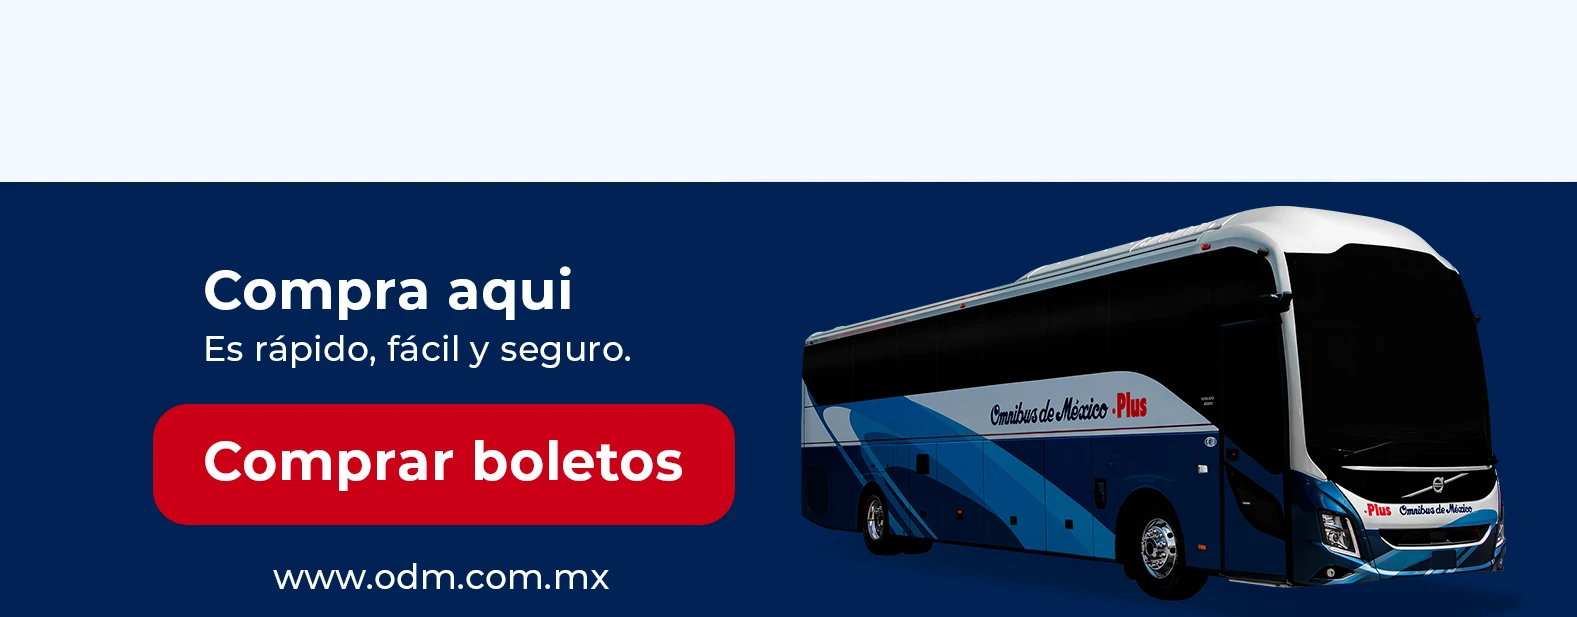
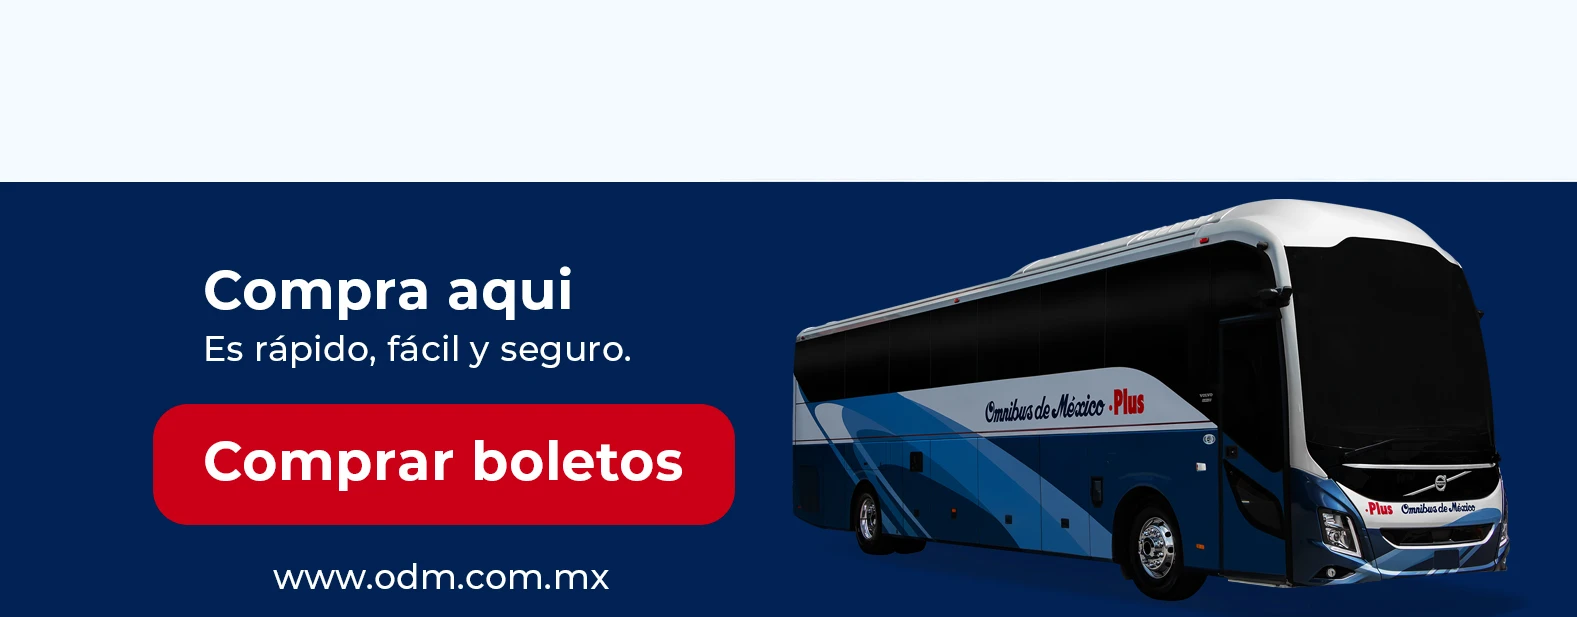
linked to landing url

Changed region(s): [[0.4971, 0.3079, 0.9632, 0.9546], [0.9321, 0.4927, 0.9632, 0.5235]]

diff --git a/src/components/Banner.tsx b/src/components/Banner.tsx
@@ -12,22 +12,24 @@ export default function Banner() {
 
   return (
     <div className="flex flex-col lg:flex-row bg-[#edf4fa]">
-            <div>
-                <h3 className="text-4xl font-bold p-2 gb-[#1f2a4f] mb-2">Viaja cómodo y seguro en nuestros autobuses de última generación</h3>
-
+        <div>
+            <h3 className="text-4xl font-bold text-[#1f2a4f] mb-2 p-6">Viaja cómodo y seguro en nuestros autobuses de última generación</h3>
+            {/* grid grid-cols-2 md:grid-cols-1 gap-x-6 gap-y-3 */}
+            <div className="grid grid-cols-2 lg:grid-cols-1 gap-x-6 gap-y-3">
                 { info.map(dato => (
-                    <div className="flex ml-4 mb-2">
-                    <svg xmlns="http://www.w3.org/2000/svg" viewBox="0 0 24 24" fill="currentColor" className="size-6 text-green-600">
-                        <path fillRule="evenodd" d="M2.25 12c0-5.385 4.365-9.75 9.75-9.75s9.75 4.365 9.75 9.75-4.365 9.75-9.75 9.75S2.25 17.385 2.25 12Zm13.36-1.814a.75.75 0 1 0-1.22-.872l-3.236 4.53L9.53 12.22a.75.75 0 0 0-1.06 1.06l2.25 2.25a.75.75 0 0 0 1.14-.094l3.75-5.25Z" clipRule="evenodd" />
-                    </svg>
-                    <p className="text-sm">{ dato.texto }</p>
-                </div>
+                    <div className="flex ml-4">
+                        <svg xmlns="http://www.w3.org/2000/svg" viewBox="0 0 24 24" fill="currentColor" className="size-6 text-green-600">
+                            <path fillRule="evenodd" d="M2.25 12c0-5.385 4.365-9.75 9.75-9.75s9.75 4.365 9.75 9.75-4.365 9.75-9.75 9.75S2.25 17.385 2.25 12Zm13.36-1.814a.75.75 0 1 0-1.22-.872l-3.236 4.53L9.53 12.22a.75.75 0 0 0-1.06 1.06l2.25 2.25a.75.75 0 0 0 1.14-.094l3.75-5.25Z" clipRule="evenodd" />
+                        </svg>
+                        <p className="text-sm">{ dato.texto }</p>
+                    </div>
                 )) }
+            </div>
 
-            </div>
-            <div>
-                <img width={1000} height={696} src="img/banner-autobus.jpg" alt="viaja a tuxpan con omnibus de mexico" />
-            </div>
         </div>
+        <div>
+            <img className="w-full" src="img/banner-autobus.webp" alt="viaja a tuxpan con omnibus de mexico" />
+        </div>
+    </div>
   )
 }

diff --git a/src/components/Header.tsx b/src/components/Header.tsx
@@ -2,14 +2,21 @@
 export default function Header() {
   return (
         <div className="flex flex-col lg:flex-row">
-            <div>
-                <img className="mt-10 mx-auto lg:mx-0" width={200} height={79} src="svg/logo-odm.svg" alt="logotipo Omnibus de Mexico" />
-                <img className="mx-auto mt-10" width={510} src="svg/texto-header.svg" alt="tuxpan, tu proximo destino" />
-                <img className="mx-auto my-10" width={600} src="svg/amenidades.svg" alt="prueba nuestro servicio plus" />
-            </div>
-            <div>
-                <img width={1000} height={696} src="img/main.webp" alt="viaja a tuxpan con omnibus de mexico" />
-            </div>
-        </div>
+    {/* Columna izquierda */}
+    <div className="flex-2">
+        <img className="mt-1 mx-auto lg:mx-0" width={300} src="svg/logo-odm.svg" alt="logotipo Omnibus de Mexico" />
+        <img className="mx-auto mt-10 w-full max-w-150" src="svg/texto-header.svg" alt="tuxpan, tu proximo destino" />
+        <img className="mx-auto my-10 w-full max-w-150" src="svg/amenidades.svg" alt="prueba nuestro servicio plus" />
+    </div>
+
+    {/* Columna derecha - Imagen principal */}
+    <div className="flex-2 flex justify-end lg:justify-end items-start">
+        <img 
+            className="w-full max-w-full lg:max-w-230 mt-10 lg:mt-0" 
+            src="img/main.webp" 
+            alt="viaja a tuxpan con omnibus de mexico" 
+        />
+    </div>
+</div>
   )
 }

diff --git a/src/components/Destinos.tsx b/src/components/Destinos.tsx
@@ -5,16 +5,18 @@ export default function Destinos() {
 
 //flex flex-col sm:flex-row flex-wrap gap-4 justify-center items-center
   return (
-    <a href="https://odm.com.mx" target="_blank" className="flex flex-col sm:flex-row flex-wrap justify-center items-center gap-4">
+    <div className="flex flex-col sm:flex-row flex-wrap justify-center items-center gap-4">
         {destinosList.map(ficha => (
-            <div
-                key={ficha.id}
-                className="w-50 h-20 cursor-pointer rounded-2xl text-center border-2 bg-[#1f2a4f] p-2 flex items-center justify-center"
-            >
-                <p className="text-white ">{ficha.value}</p>
-            </div>
+            <a href={`https://odm.com.mx/index.php?origen=TXP&destino=${ ficha.id }`} target="_blank">
+                <div
+                    key={ficha.id}
+                    className="w-50 h-20 cursor-pointer rounded-2xl text-center border-2 bg-[#1f2a4f] p-2 flex items-center justify-center"
+                    >
+                    <p className="text-white ">{ficha.value}</p>
+                </div>
+            </a>
         ))}
-    </a>
+    </div>
 
   )
 }

diff --git a/src/components/Index.tsx b/src/components/Index.tsx
@@ -6,7 +6,7 @@ import Header from "./Header"
 
 export default function Index() {
   return (
-    <main className="max-w-300 mx-auto bg-white">
+    <main className="max-w-[1700px] mx-auto bg-white">
         
         <Header />
         
@@ -50,10 +50,10 @@ export default function Index() {
         </div>
         <footer className="flex flex-col lg:flex-row w-full">
             <a href="https://odm.com.mx/app.html" target="_blank">
-                <img className="w-full lg:max-w-150 h-auto mx-auto" src="img/footerA.jpg" alt="footer omnibus de mexico" />
+                <img className="w-full lg:max-w-220 h-auto mx-auto" src="img/footerA.webp" alt="footer omnibus de mexico" />
             </a>
             <a href="https://odm.com.mx/" target="_blank">
-                <img className="w-full lg:max-w-150 h-auto mx-auto" src="img/footerB.jpg" alt="footer omnibus de mexico" />
+                <img className="w-full lg:max-w-220 h-auto mx-auto" src="img/footerB.webp" alt="footer omnibus de mexico" />
             </a>
         </footer>
     </main>